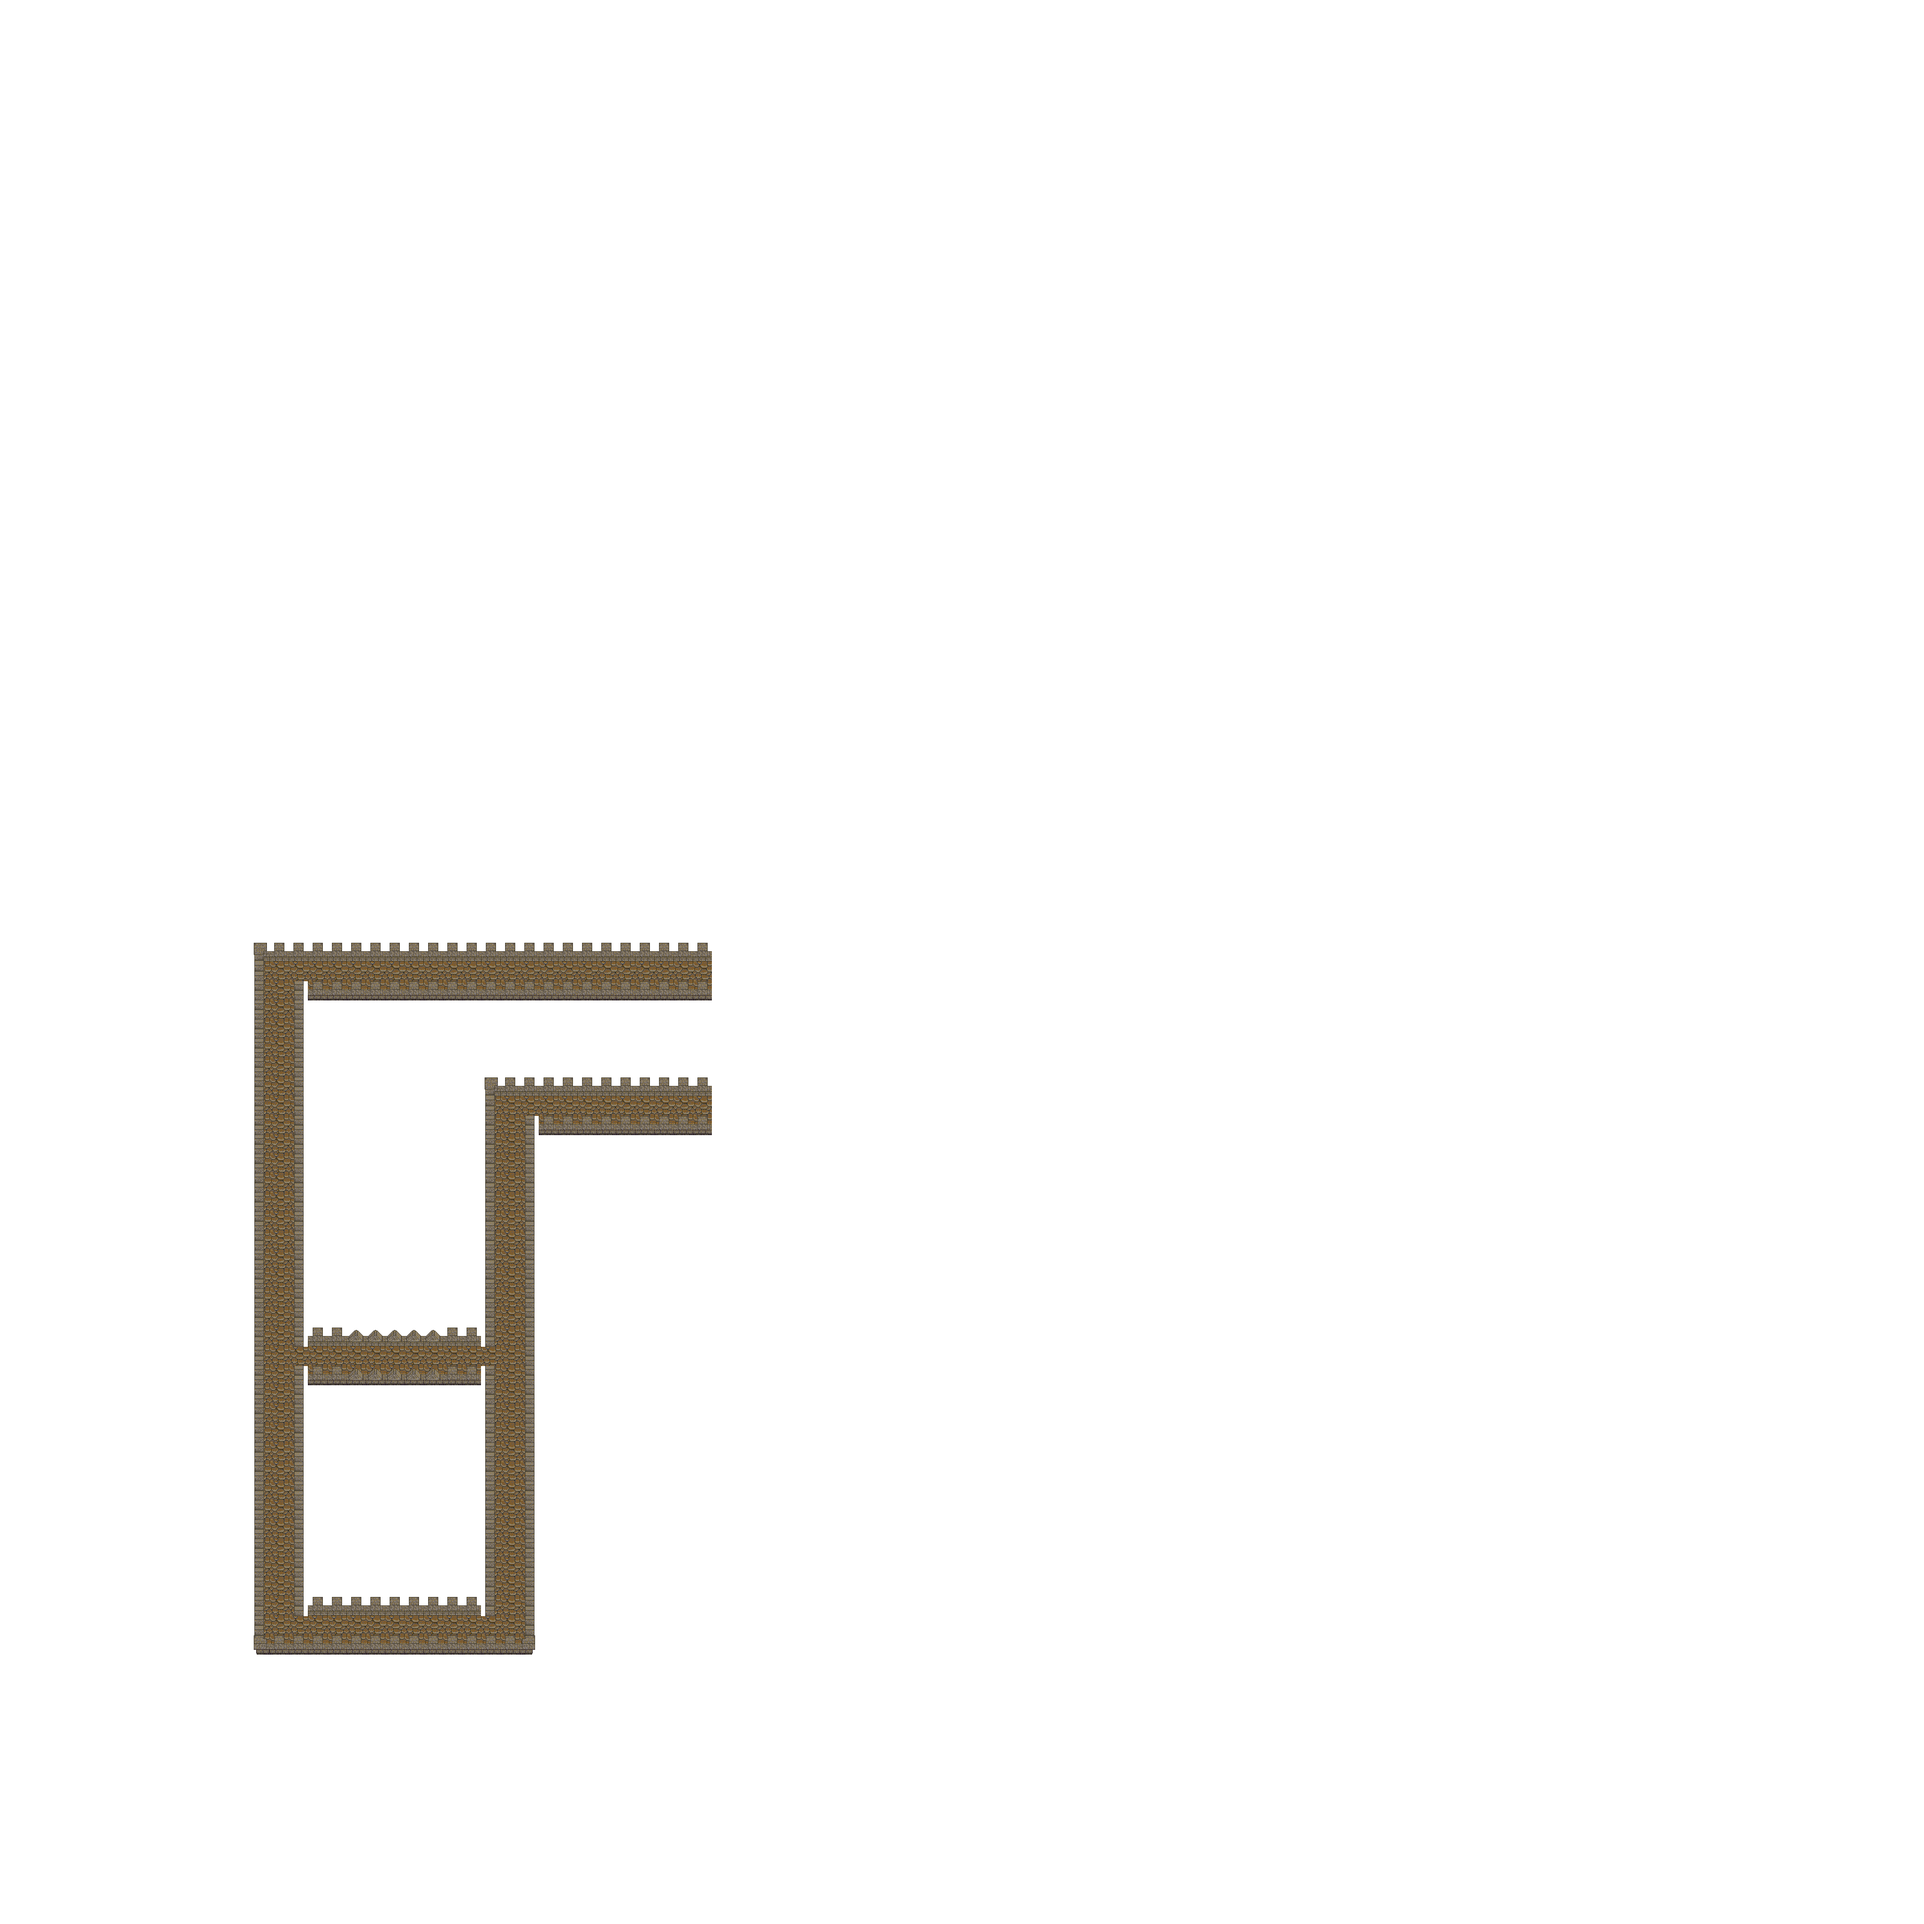
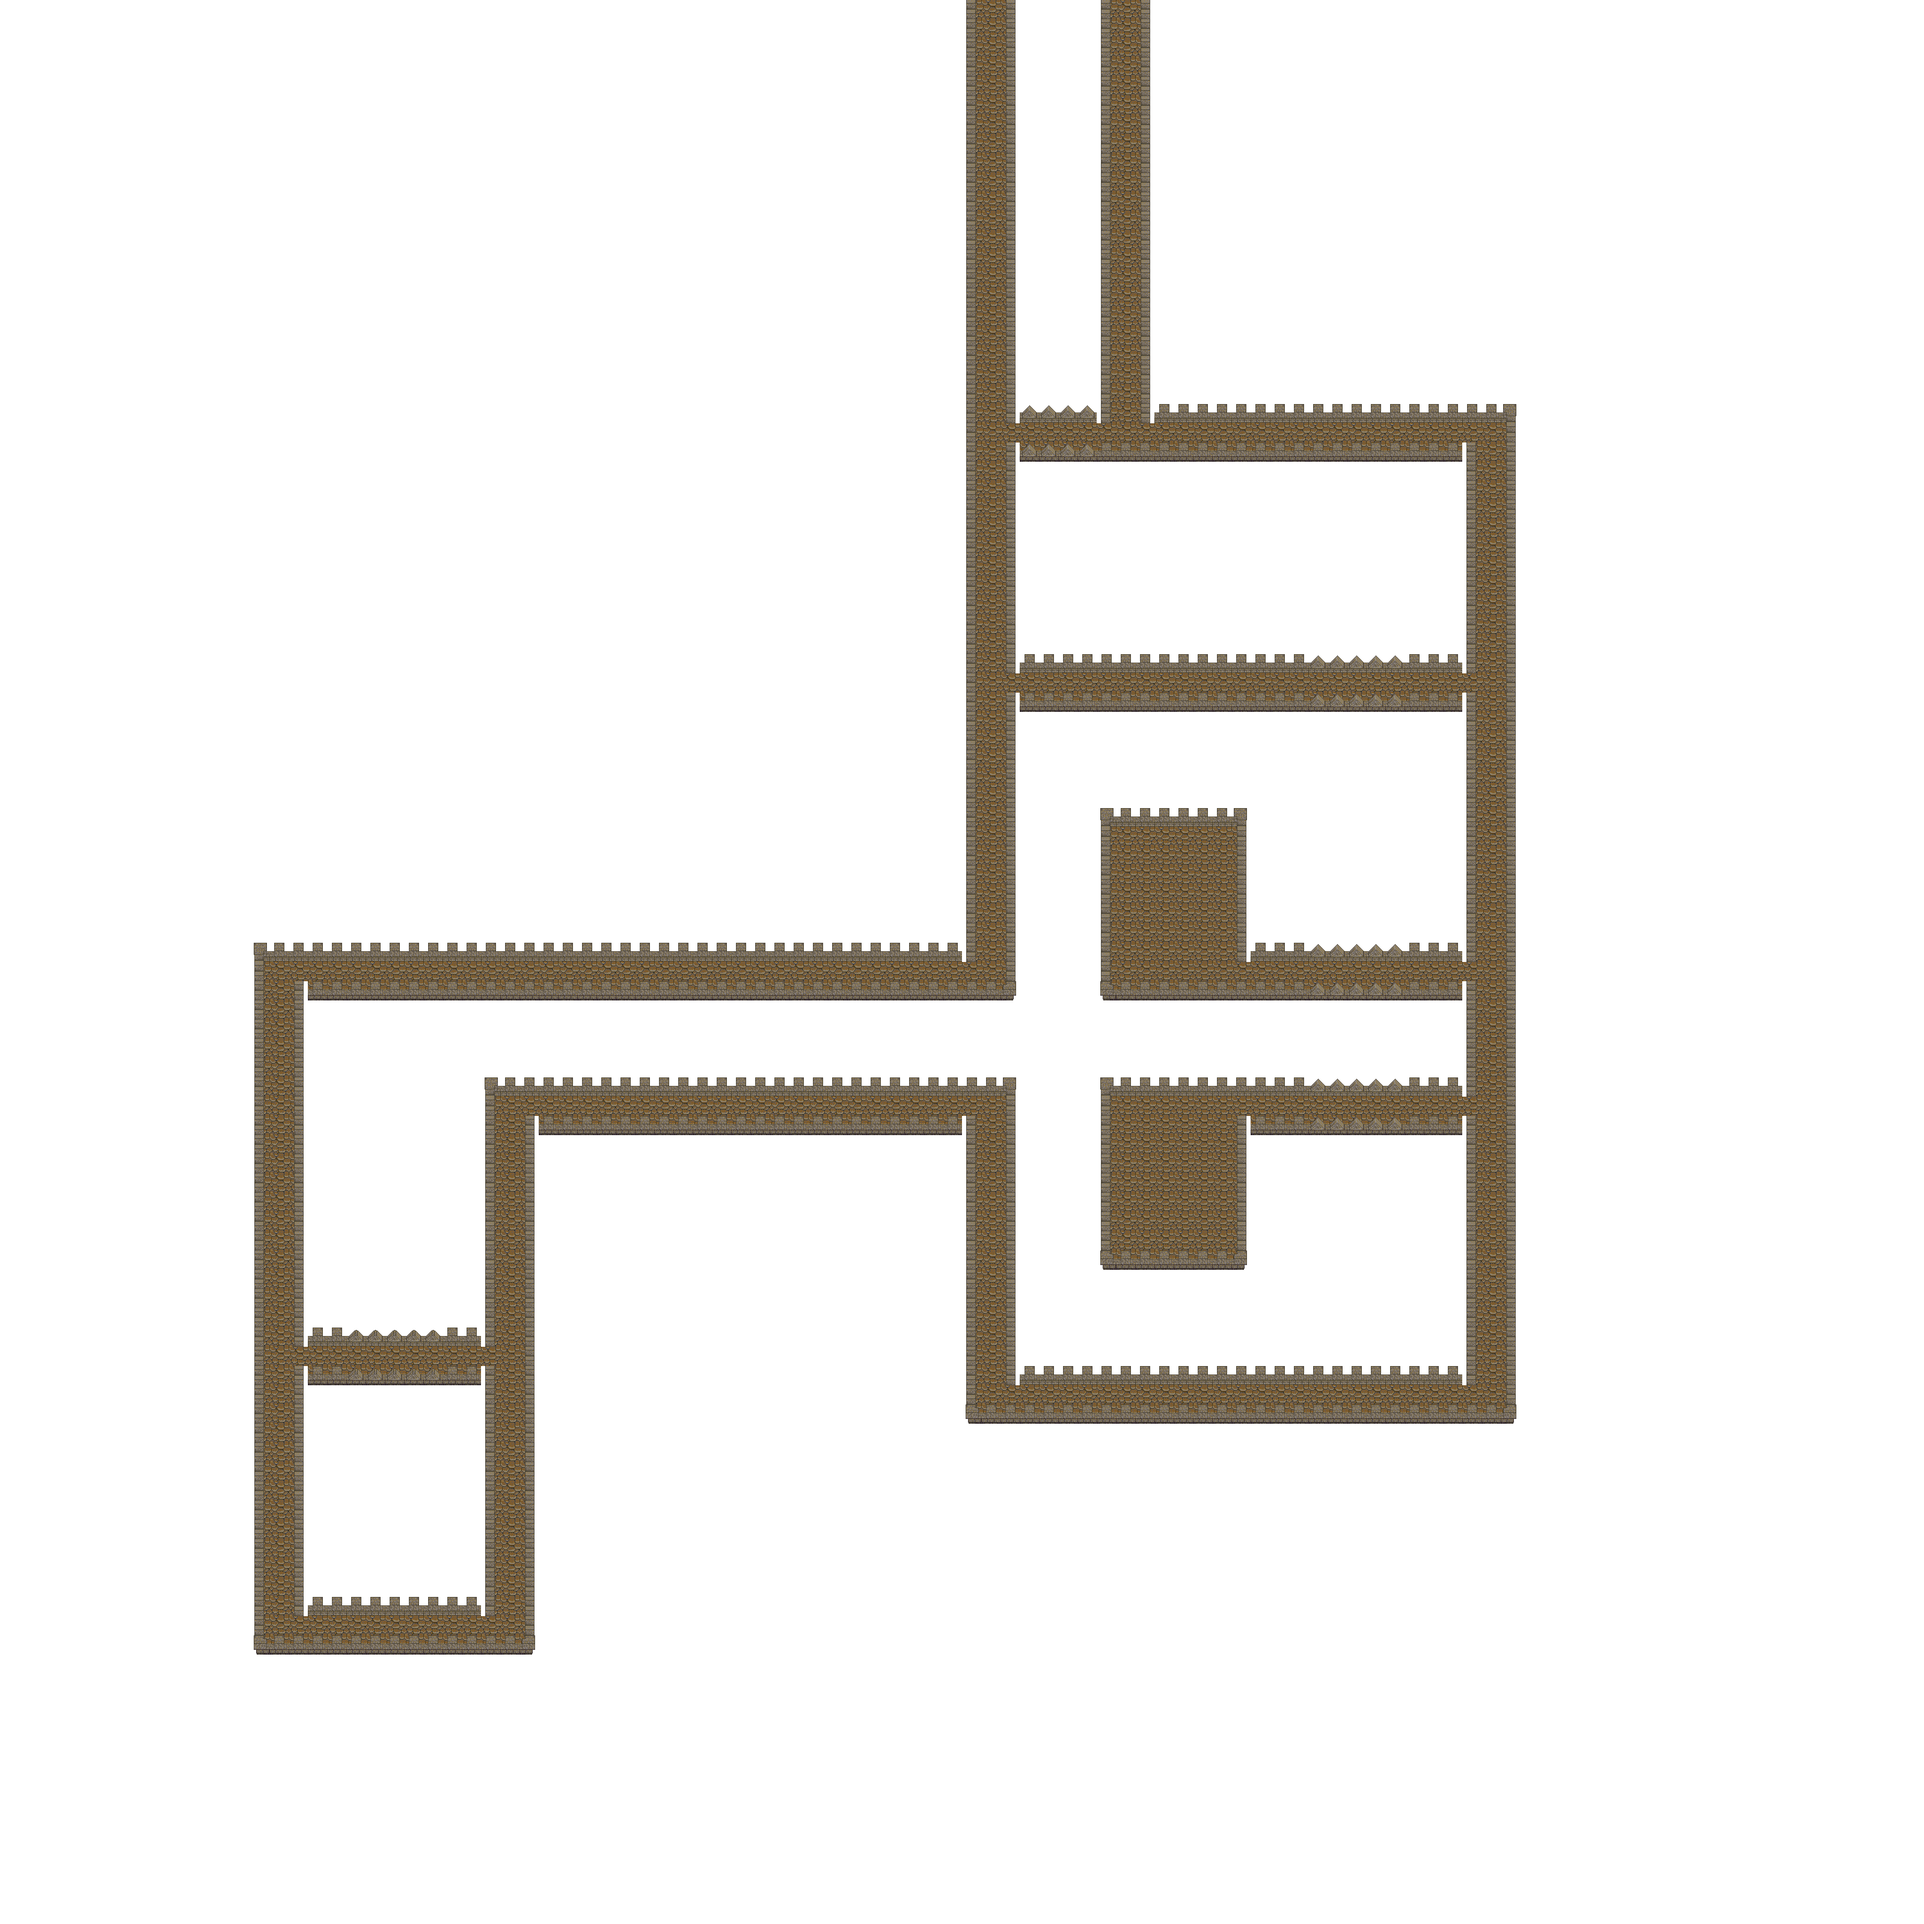
finished map, money -> flies

Changed region(s): [[0.3438, 0.0, 0.8125, 0.75]]

diff --git a/js/gamedata.js b/js/gamedata.js
@@ -16,7 +16,8 @@ var Game = {
         Game.graphics.addElement(object.element);
     },
     gates: [
-        new Gate(new GameElement("img/Castle_2.png", 328, -16, 96, 96, {sx: 320, sy: 96}))
+        new Gate(new GameElement("img/Castle_2.png", 328, -16, 96, 96, {sx: 320, sy: 96})),
+        new Gate(new GameElement("img/Castle_2.png", 1920, -1130, 96, 96, {sx: 320, sy: 96}))
     ],
     checkMovable: function(element, xDelta, yDelta) {
         var xNew = Game.background.sx + element.x + xDelta,
@@ -107,51 +108,51 @@ var walkableMap = [
     "",
     "",
     "",
-    "",
-    "",
-    "",
-    "", // 30
-    "",
-    "",
-    "",
-    "",
-    "",
-    "",
-    "",
-    "",
-    "",
-    "", // 40
-    "",
-    "",
-    "",
-    "",
-    "",
-    "",
-    "",
-    "",
-    "",
-    "",  // 50
-    "",
-    "",
-    "",
-    "",
-    "               xxxxxxxxxxxxxxxxxxxx  ",
-    "               xxxxxxxxxxxxxxxxxxxx  ",
-    "               xxxxxxxxx  ",
-    "               xxxxxxxxx  ",
-    "               xxxxxxxxx  ",
-    "               xxxxxxxxx  ",  // 60
-    "               xxxxxxxxx  ",
-    "               xxxxxxxxx  ",
-    "               xxxxxxxxx  ",
-    "               xxxxxxxxx  ",
-    "               xxxxxxxxx  ",
-    "               xxxxxxxxx  ",
-    "               xxxxxxxxx  ",
-    "               xxxxxxxxx  ",
-    "               xxxxxxxxx  ",
-    "                  xx      ",  // 70
-    "                  xx      ",
+    "                                                    xxxxxx xxxxxxxxx xxxx  ",
+    "                                                    xxx xx xxxxxxxxx xx xxx  ",
+    "                                                    xxx xxxx  xxx  xxxx xxx  ",
+    "                                                    xxxxxxxxxxxxxxxxxxxxxxx  ", // 30
+    "                                                    xxxxxxxxxxxxxxxxxxxxxxx  ",
+    "                                                    xxxxxxxxxxxxxxxxxxxx  x  ",
+    "                                                    xxxxxxx xxxxxxxxxxxxxxx  ",
+    "                                                    xxxxxxxxxxxxxxxxxxxxxxx  ",
+    "                                                                    xxx  ",
+    "                                                                    xxx  ",
+    "                                                                    xxx  ",
+    "                                                                    xxx  ",
+    "                                                                    xxx  ",
+    "                                                    xxxxxxxxxxxxxxxxxxxxxxx  ", // 40
+    "                                                    xxxxxxxxxxxxxxxxxxxxxxx  ",
+    "                                                    xxxxxxxxxxxxxxxxxxxxxxx  ",
+    "                                                    xxxx        xxxxxxxxxxx  ",
+    "                                                    xxxx        xxxxxxxxxxx  ",
+    "                                                    xxxx        xxxxxxxxxxx  ",
+    "                                                    xxxx        xxxxxxxxxxx  ",
+    "                                                    xxxx        xxxxxxxxxxx  ",
+    "                                                    xxxx        xxxxxxxxxxx  ",
+    "                                                    xxxx        xxxxxxxxxxx  ",
+    "                                                    xxxx            xxx  ",  // 50
+    "                                                    xxxx            xxx  ",
+    "                                                    xxxx            xxx  ",
+    "                                                    xxxx            xxx  ",
+    "                                                    xxxx            xxx  ",
+    "               xxxxxxxxxxxxxxxxxxxxxxxxxxxxxxxxxxxxxxxxxxxxxxxxxxxxxxxxxxxx  ",
+    "               xxxxxxxxxxxxxxxxxxxxxxxxxxxxxxxxxxxxxxxxxxxxxxxxxxxxxxxxxxxx  ",
+    "               xxxxxxxxx                            xxxx            xxx  ",
+    "               xxxxxxxxx                            xxxx            xxx  ",
+    "               xxxxxxxxx                            xxxx            xxx  ",
+    "               xxxxxxxxx                            xxxx            xxx  ",  // 60
+    "               xxxxxxxxx                            xxxx            xxx  ",
+    "               xxxxxxxxx                            xxxx        xxxxxxxxxxx  ",
+    "               xxxxxxxxx                            xxxx        xxxxxxxxxxx  ",
+    "               xxxxxxxxx                            xxxx        xxxxxxxxxxx  ",
+    "               xxxxxxxxx                            xxxx        xxxxxxxxxxx  ",
+    "               xxxxxxxxx                            xxxx        xxxxxxxxxxx  ",
+    "               xxxxxxxxx                            xxxx        xxxxxxxxxxx  ",
+    "               xxxxxxxxx                            xxxx        xxxxxxxxxxx  ",
+    "               xxxxxxxxx                            xxxxxxxxxxxxxxxxxxxxxxx  ",
+    "                  xx                                xxxxxxxxxxxxxxxxxxxxxxx  ",  // 70
+    "                  xx                                xxxxxxxxxxxxxxxxxxxxxxx  ",
     "                  xx      ",
     "                  xx      ",
     "                  xx      ",

diff --git a/js/main.js b/js/main.js
@@ -23,7 +23,7 @@ jQuery(function() {
     // player logic
     function Player() {
         this.health = 100;
-        this.money = 1000;
+        this.money = 10;
         this.element = Game.playerElement;
         this.speed = Game.playerSpeed;
         this.lastClickedAt = {x: 0, y: 0};

diff --git a/index.html b/index.html
@@ -30,7 +30,7 @@
 
 <div class="hud">
     Health: <span class="health">100</span>
-    Money: <span class="money">0</span>
+    Flies: <span class="money">0</span>
 </div>
 <div class="playingfield"></div>
 
